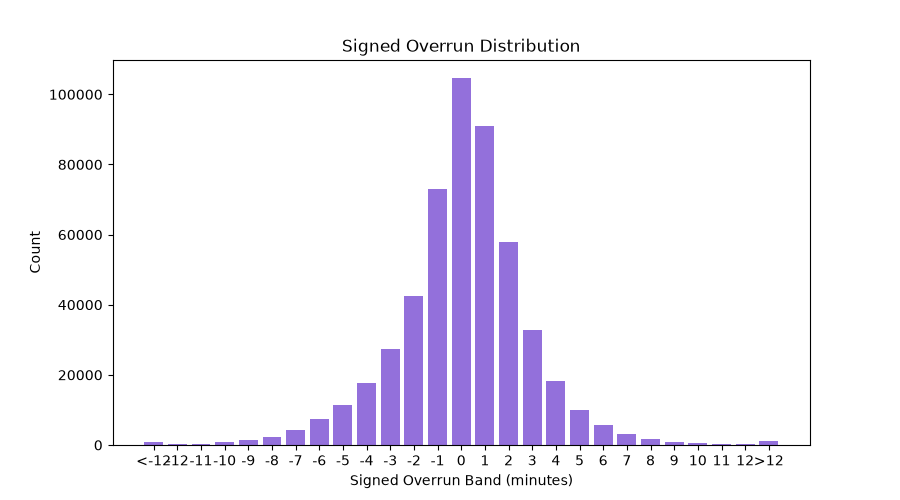
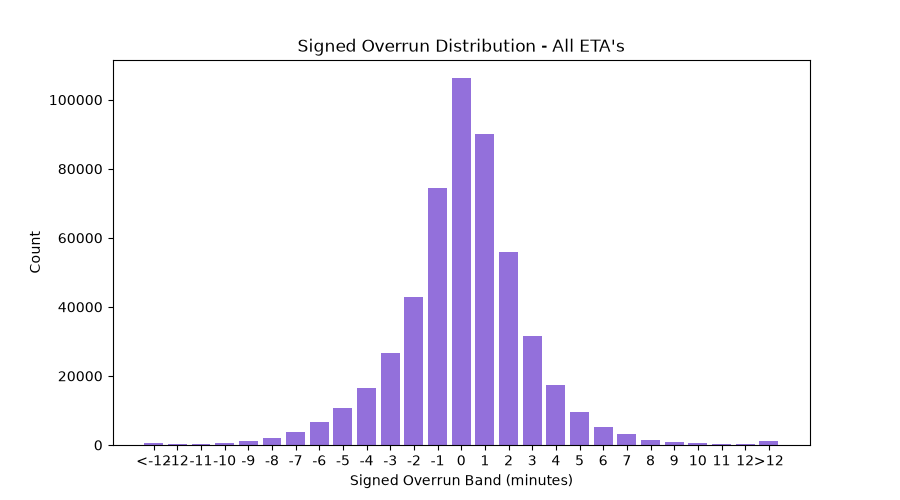
analysis pipeline modification

diff --git a/040-analysis/analysis.py b/040-analysis/analysis.py
@@ -1,6 +1,7 @@
 import os
 import pathlib
 import json
+import itertools
 import sqlalchemy
 import dotenv
 import pandas
@@ -9,10 +10,10 @@ import matplotlib.pyplot as plt
 
 #load route/stop config
 with open(pathlib.Path(__file__).parent / "routes.json") as f:
-    ROUTE_STOPS = json.load(f)
+    ROUTE_CONFIG = json.load(f)
 
-#group routes that share the exact same stop sequence (e.g. 3922 and 3924) so
-#they get one combined chart, keyed by their stop order
+ROUTE_STOPS = ROUTE_CONFIG["routes"]
+
 STOP_GROUPS = {}
 for route, stops in ROUTE_STOPS.items():
     STOP_GROUPS.setdefault(tuple(stops), []).append(route)
@@ -31,8 +32,9 @@ engine = sqlalchemy.create_engine(dbURL)
 
 #fetch data from db
 df = pandas.read_sql("""
-    SELECT fetched_at_utc, stop_code, route_code, veh_code, eta_minutes, active
+    SELECT fetched_at_utc, stop_code, route_code, veh_code, eta_minutes
     FROM collector.eta_observations
+    WHERE active = 1
 """, engine, parse_dates=["fetched_at_utc"])
 
 #infer hours, day of the week and day-type the date column
@@ -45,10 +47,7 @@ TYPES = {0: "Weekday", 1:"Weekday", 2:"Weekday", 3:"Weekday", 4:"Weekday", 5:"We
 df["day_type"] = df["dow"].map(TYPES)
 
 
-#split data into episodes
-#we need gap and jump to split the data into episodes:
-#gap : real time minutes since the same was listed on the stop
-#jump : the difference in prediction time that the same bus gets to the stop
+#group data into episodes
 
 KEY = ["route_code", "veh_code", "stop_code"]
 GAP_MAX  = 20
@@ -65,9 +64,8 @@ new_episode = gap_min.isna() | (gap_min > GAP_MAX) | (jump > JUMP_MAX)
 df["episode"] = new_episode.cumsum()
 
 
-#Finding ground truth per episode and calculating error
+#finding ground truth per episode and calculating error
 
-#ground truth per episode
 df["eta_min_ep"] = df.groupby("episode")["eta_minutes"].transform("min")
 
 first_min = (df[df["eta_minutes"] == df["eta_min_ep"]].groupby("episode").last())
@@ -76,23 +74,66 @@ actual = first_min["fetched_at_utc"] + pandas.to_timedelta(first_min["eta_minute
 
 df["actual_arrival"] = df["episode"].map(actual)
 
-#predicted arrival (in time)
+
 df["pred_arrival"] = df["fetched_at_utc"] + pandas.to_timedelta(df["eta_minutes"], unit="m")
 
 #error
-#signed overrun: positive = bus arrived later than predicted, negative = earlier
 df["overrun_signed"] = (df["actual_arrival"] - df["pred_arrival"]).dt.total_seconds() / 60
 df["overrun_abs"] = df["overrun_signed"].abs()
 
-#filter out episodes with an episode eta min of more than
-usable_data = (df["eta_min_ep"] <= 2) & (df["eta_minutes"] >= 3) & (df["active"] == 1)
-
-
-###
-###
-###
+#filter out episodes with an episode eta min of more than 2
+usable_data = (df["eta_min_ep"] <= 2) & (df["eta_minutes"] >= 3)
 
 OUT = pathlib.Path("output"); OUT.mkdir(exist_ok=True)
+
+
+ROUTE = ROUTE_CONFIG["distanceAnalysisRoute"]
+NEAR_LO, NEAR_HI = 5, 10
+MIN_N = 100
+
+cyc = df.copy()
+cyc = cyc[cyc["route_code"].astype(str) == ROUTE]
+cyc["stop_code"] = cyc["stop_code"].astype(str)
+
+wide = cyc.pivot_table(index=["veh_code", "fetched_at_local", "hour"],columns="stop_code", values="eta_minutes",aggfunc="first").reset_index()
+
+rows = []
+for a, b in itertools.pairwise(ROUTE_STOPS[ROUTE]):
+    a, b = str(a), str(b)
+    if a not in wide.columns or b not in wide.columns:
+        continue
+    both = wide[wide[a].between(NEAR_LO, NEAR_HI) & wide[b].notna()]
+    rows.append(pandas.DataFrame({
+        "segment": f"{a} - {b}",
+        "hour": both["hour"],
+        "implied_min": both[b] - both[a],
+    }))
+
+implied = pandas.concat(rows, ignore_index=True)
+
+by_hour = (implied.groupby(["segment", "hour"])["implied_min"].agg(estimate="median", n="size").reset_index())
+by_hour = by_hour[by_hour["n"] >= MIN_N]
+
+order = (by_hour.groupby("segment")["estimate"].median().sort_values(ascending=False).index)
+
+fig, ax = plt.subplots(figsize=(9.5, 5.5))
+
+for seg in order:
+    d = by_hour[by_hour["segment"] == seg].sort_values("hour")
+    ax.plot(d["hour"], d["estimate"], marker="o", ms=4, label=seg)
+
+ax.set_xticks(range(0, 24, 2))
+ax.set_xlim(-0.5, 23.5)
+ax.set_ylim(bottom=0)
+ax.set_xlabel("Hour of day")
+ax.set_ylabel("Travel time the model expects (minutes)")
+ax.set_title("Predicted Bus Speed Related To Hour")
+ax.legend(title="segment", fontsize="small", title_fontsize="small")
+ax.grid(axis="y", alpha=0.25)
+
+fig.savefig(OUT / "model_segment_estimate_by_hour.png", dpi=150, bbox_inches="tight")
+plt.close(fig)
+
 
 #signed overrun bands: one minute wide, each integer from -12 to 12 gets its own bar
 EDGES  = [-numpy.inf] + [i - 0.5 for i in range(-12, 14)] + [numpy.inf]
@@ -105,11 +146,10 @@ fig, ax = plt.subplots(figsize=(9, 5))
 ax.bar(signed_counts.index, signed_counts.values, color="mediumpurple")
 ax.set_xlabel("Signed Overrun Band (minutes)")
 ax.set_ylabel("Count")
-ax.set_title("Signed Overrun Distribution")
+ax.set_title("Signed Overrun Distribution - All ETA's")
 fig.savefig(OUT / "overrun_signed_bands.png")
 plt.close(fig)
 
-###
 
 #same signed overrun band chart, split out per eta band
 ETA_BANDS = ["3-7", "8-15", "16-25", "26-40", "41+"]
@@ -127,9 +167,8 @@ for b in ETA_BANDS:
     fig.savefig(OUT / f"overrun_signed_bands_eta_{b}.png")
     plt.close(fig)
 
-###
 
-#accuracy within 1 minute, by stop — eta band 3-7 only, one chart per stop group
+#accuracy within 1 minute, by stop, eta band 3-7 only, one chart per stop group
 for stop_order, routes in STOP_GROUPS.items():
     stop_sub = df[usable_data & (df["eta_band"] == "3-7") & df["route_code"].isin(routes)]
     stop_acc = stop_sub.groupby("stop_code")["overrun_abs"].apply(lambda s: (s <= 1).mean() * 100)
@@ -147,7 +186,25 @@ for stop_order, routes in STOP_GROUPS.items():
     fig.savefig(OUT / f"accuracy_within_1min_by_stop_eta_3-7_route_{label.replace('/', '-')}.png")
     plt.close(fig)
 
-###
+
+#accuracy within 1 minute, by stop, uncontrolled, one chart per stop group
+for stop_order, routes in STOP_GROUPS.items():
+    stop_sub = df[usable_data & df["route_code"].isin(routes)]
+    stop_acc = stop_sub.groupby("stop_code")["overrun_abs"].apply(lambda s: (s <= 1).mean() * 100)
+    stop_acc = stop_acc.reindex([s for s in stop_order if s in stop_acc.index])
+
+    label = "/".join(routes)
+    fig, ax = plt.subplots(figsize=(max(9, len(stop_acc) * 1.2), 5))
+    ax.bar(stop_acc.index.astype(str), stop_acc.values, color="mediumpurple")
+    ax.set_ylim(0, 100)
+    ax.set_xlabel("Stop Code")
+    ax.set_ylabel("% Within 1 Minute")
+    ax.set_title(f"Accuracy Within 1 Minute by Stop — Route {label}")
+    ax.set_xticks(range(len(stop_acc)))
+    ax.set_xticklabels(stop_acc.index.astype(str), rotation=45, ha="right")
+    fig.savefig(OUT / f"accuracy_within_1min_by_stop_route_{label.replace('/', '-')}.png")
+    plt.close(fig)
+
 
 #accuracy within 1 minute, by hour of day
 hour_acc = df[usable_data].groupby("hour")["overrun_abs"].apply(lambda s: (s <= 1).mean() * 100).reindex(range(24))
@@ -162,7 +219,6 @@ ax.set_xticks(range(24))
 fig.savefig(OUT / "accuracy_within_1min_by_hour.png")
 plt.close(fig)
 
-###
 
 #accuracy within 1 minute, by hour of day — eta band 3-7 only
 hour_sub = df[usable_data & (df["eta_band"] == "3-7")]
@@ -177,5 +233,3 @@ ax.set_title("Accuracy Within 1 Minute by Hour — ETA 3-7")
 ax.set_xticks(range(24))
 fig.savefig(OUT / "accuracy_within_1min_by_hour_eta_3-7.png")
 plt.close(fig)
-
-###
